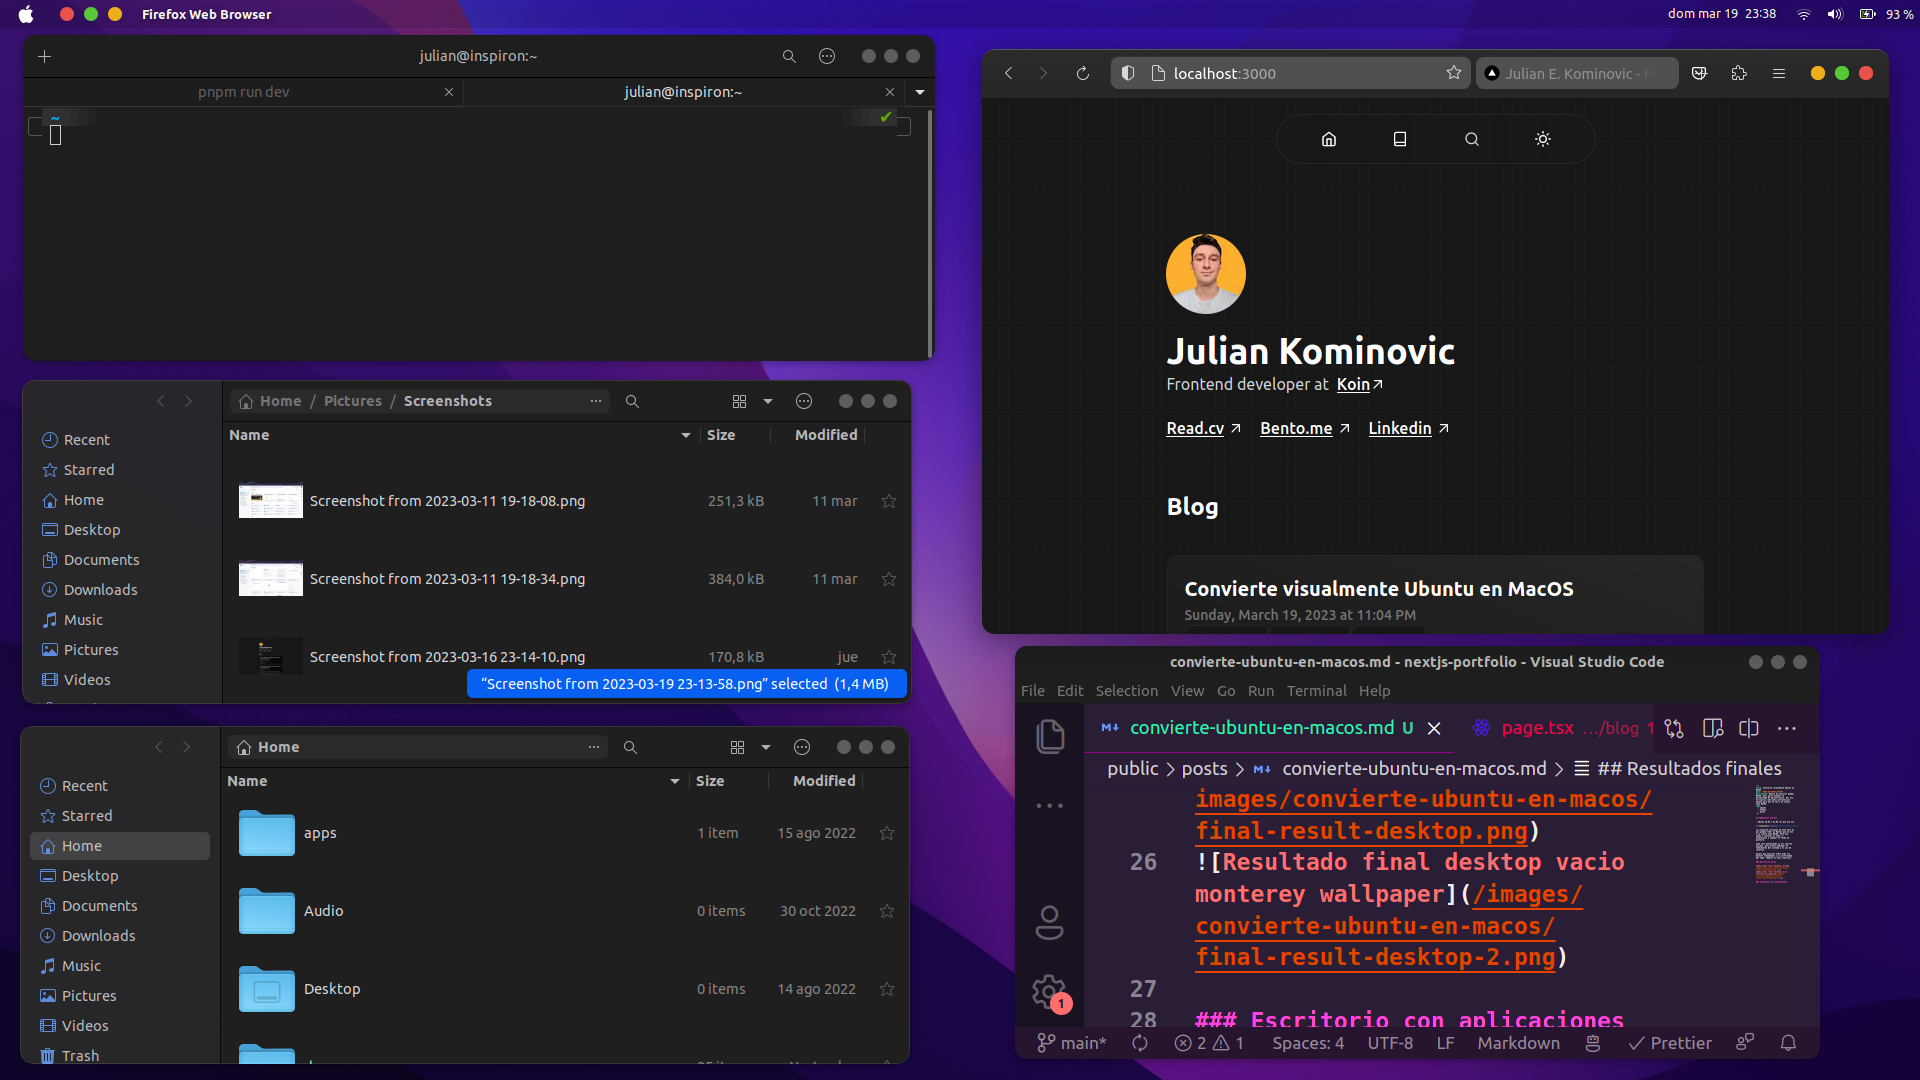
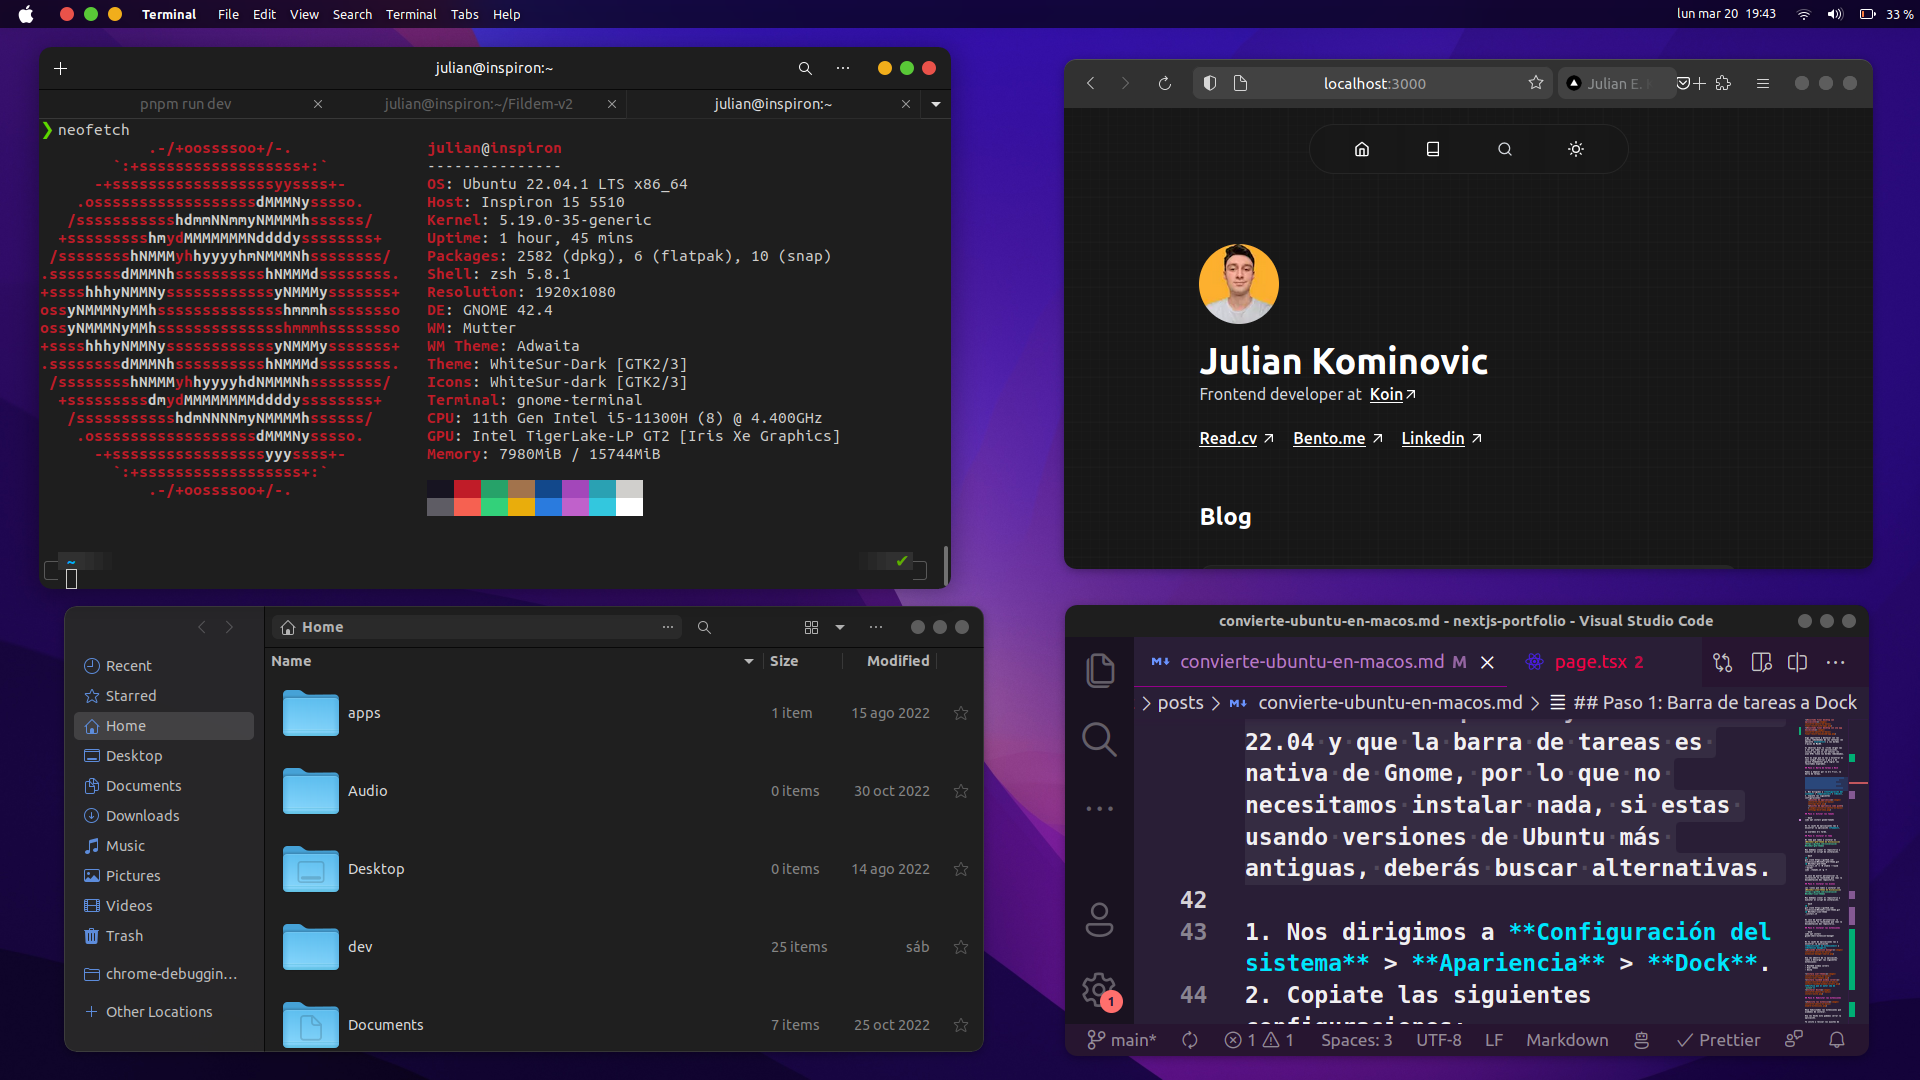
feat: ubuntu to mac post & og image

diff --git a/app/blog/[slug]/page.tsx b/app/blog/[slug]/page.tsx
@@ -9,15 +9,37 @@ import { readPost, readPostContent } from "@/lib/posts.server";
 import CustomElement from "@/components/markdown/CustomElements";
 import AutoHighlightedWord from "@/components/AutoHightlightedWord";
 import Image from "next/image";
+import { buildImageUrl, COMMON_METADATA } from "@/public/metadata";
+import { Metadata } from "next";
 
 function textContentAsID(textContent: string) {
   return textContent.replace(/ /g, "-").toLocaleLowerCase();
 }
 
+export async function generateMetadata({ params }): Promise<Metadata> {
+  const { slug } = params;
+  const { title, description, ogImage } = await readPost(slug);
+  console.log(buildImageUrl(title, description, ogImage));
+
+  return {
+    ...COMMON_METADATA,
+    title,
+    description,
+    openGraph: {
+      ...COMMON_METADATA.openGraph,
+      title,
+      description,
+      images: [{ url: buildImageUrl(title, description, ogImage) }],
+    },
+  };
+}
+
 export default async function Page({ params, searchParams }) {
   const { slug } = params;
   const highlightedWord = searchParams["highlight"];
-  const { content, title, date, description, tags } = await readPost(slug);
+  const { content, title, date, description, tags, ogImage } = await readPost(
+    slug
+  );
   return (
     <>
       <h1>{title}</h1>
@@ -47,24 +69,54 @@ export default async function Page({ params, searchParams }) {
               />
             </a>
           ),
-          h1: (props: any) => (
-            <h1 {...props} id={textContentAsID(String(props.children))} />
-          ),
-          h2: (props: any) => (
-            <h2 {...props} id={textContentAsID(String(props.children))} />
-          ),
-          h3: (props: any) => (
-            <h3 {...props} id={textContentAsID(String(props.children))} />
-          ),
-          h4: (props: any) => (
-            <h4 {...props} id={textContentAsID(String(props.children))} />
-          ),
-          h5: (props: any) => (
-            <h5 {...props} id={textContentAsID(String(props.children))} />
-          ),
-          h6: (props: any) => (
-            <h6 {...props} id={textContentAsID(String(props.children))} />
-          ),
+          h1: (props: any) => {
+            const childrenAsText = textContentAsID(String(props.children));
+            return (
+              <a href={"#" + childrenAsText} className="no-underline">
+                <h1 {...props} id={childrenAsText} />
+              </a>
+            );
+          },
+          h2: (props: any) => {
+            const childrenAsText = textContentAsID(String(props.children));
+            return (
+              <a href={"#" + childrenAsText} className="no-underline">
+                <h2 {...props} id={childrenAsText} />
+              </a>
+            );
+          },
+          h3: (props: any) => {
+            const childrenAsText = textContentAsID(String(props.children));
+            return (
+              <a href={"#" + childrenAsText} className="no-underline">
+                <h3 {...props} id={childrenAsText} />
+              </a>
+            );
+          },
+          h4: (props: any) => {
+            const childrenAsText = textContentAsID(String(props.children));
+            return (
+              <a href={"#" + childrenAsText} className="no-underline">
+                <h4 {...props} id={childrenAsText} />
+              </a>
+            );
+          },
+          h5: (props: any) => {
+            const childrenAsText = textContentAsID(String(props.children));
+            return (
+              <a href={"#" + childrenAsText} className="no-underline">
+                <h5 {...props} id={childrenAsText} />
+              </a>
+            );
+          },
+          h6: (props: any) => {
+            const childrenAsText = textContentAsID(String(props.children));
+            return (
+              <a href={"#" + childrenAsText} className="no-underline">
+                <h6 {...props} id={childrenAsText} />
+              </a>
+            );
+          },
         }}
       >
         {content}

diff --git a/app/api/og/route.tsx b/app/api/og/route.tsx
@@ -5,18 +5,26 @@ export const config = {
   runtime: "edge",
 };
 
+const DEFAULT_IMAGE = "https://avatars.githubusercontent.com/u/70329467?v=4";
+const BASE_URL =
+  process.env.NODE_ENV === "development"
+    ? "http://localhost:3000"
+    : "https://jkominovic.vercel.app";
+
 export function GET(req: NextRequest) {
   try {
     const { searchParams } = new URL(req.url);
 
     const title = searchParams.get("title");
     const description = searchParams.get("description");
+    const imageUrl = searchParams.get("imageUrl");
+
+    const imageSrc = imageUrl ? `${BASE_URL}${imageUrl}` : DEFAULT_IMAGE;
 
     return new ImageResponse(
       (
         <div
           style={{
-            padding: "0 120px",
             backgroundColor: "black",
             backgroundImage:
               "linear-gradient(45deg, rgba(0,0,0,1) 0%, rgba(13,13,13,1) 100%)",
@@ -25,19 +33,10 @@ export function GET(req: NextRequest) {
             width: "100%",
             display: "flex",
             alignItems: "center",
+            position: "relative",
             gap: 16,
           }}
         >
-          <img
-            src={`https://avatars.githubusercontent.com/u/70329467?v=4`}
-            width={200}
-            height={200}
-            alt="Julian Kominovic profile pic"
-            style={{
-              aspectRatio: "1/1",
-              borderRadius: "50%",
-            }}
-          />
           <div
             style={{
               display: "flex",
@@ -46,11 +45,12 @@ export function GET(req: NextRequest) {
               alignItems: "baseline",
               flexDirection: "column",
               flexWrap: "nowrap",
+              maxWidth: "50%",
             }}
           >
             <div
               style={{
-                fontSize: 60,
+                fontSize: 48,
                 fontStyle: "normal",
                 fontWeight: 900,
                 fontFamily:
@@ -58,7 +58,7 @@ export function GET(req: NextRequest) {
                 letterSpacing: "-0.025em",
                 color: "white",
                 marginTop: 30,
-                padding: "0 120px",
+                padding: "0 60px",
                 lineHeight: 1,
                 whiteSpace: "pre-wrap",
               }}
@@ -67,14 +67,14 @@ export function GET(req: NextRequest) {
             </div>
             <div
               style={{
-                fontSize: 28,
+                fontSize: 24,
                 fontWeight: 300,
-                maxWidth: "80%",
                 color: "#444",
                 fontStyle: "normal",
                 letterSpacing: "-0.025em",
                 marginTop: 30,
-                padding: "0 120px",
+                lineClamp: 3,
+                padding: "0 60px",
                 lineHeight: 1.4,
                 whiteSpace: "pre-wrap",
               }}
@@ -82,6 +82,18 @@ export function GET(req: NextRequest) {
               {description}
             </div>
           </div>
+          <img
+            src={imageSrc}
+            alt="Julian Kominovic profile pic"
+            style={{
+              maxWidth: "40%",
+              position: imageUrl ? "absolute" : "relative",
+              right: imageUrl ? "-20%" : "0",
+              objectFit: "contain",
+              borderRadius: imageUrl ? "24px" : "50%",
+              overflow: "hidden",
+            }}
+          />
         </div>
       ),
       {

diff --git a/public/metadata.ts b/public/metadata.ts
@@ -4,10 +4,14 @@ const DEFAULT_TITLE = "Julian E. Kominovic - Frontend Developer";
 const DEFAULT_DESCRIPTION =
   "Julian Ezequiel Kominovic Frontend Developer at Koin. Blog, projects and more.";
 
-export const buildImageUrl = (title: string, description: string) => {
+export const buildImageUrl = (
+  title: string,
+  description: string,
+  imageUrl: string
+) => {
   if (process.env.NODE_ENV === "development")
-    return `http://localhost:3000/api/og?title=${title}&description=${description}`;
-  return `https://jkominovic.vercel.app/api/og?title=${title}&description=${description}`;
+    return `http://localhost:3000/api/og?title=${title}&description=${description}&imageUrl=${imageUrl}`;
+  return `https://jkominovic.vercel.app/api/og?title=${title}&description=${description}&imageUrl=${imageUrl}`;
 };
 
 export const COMMON_METADATA: Metadata = {

diff --git a/app/page.tsx b/app/page.tsx
@@ -14,7 +14,7 @@ import ProfilPic from "../assets/images/pic.jpeg";
 export default async function Home() {
   const posts = await readLastPosts();
   return (
-    <main className="w-full p-6 mx-auto overflow-x-hidden prose dark:prose-invert">
+    <main className="w-full p-6 mx-auto overflow-x-hidden prose prose-lg dark:prose-invert">
       <header className="flex flex-col ">
         <Image
           src={ProfilPic}

diff --git a/lib/posts.server.ts b/lib/posts.server.ts
@@ -8,6 +8,7 @@ export type PostMetadata = {
   description: string;
   tags: string[];
   filename: string;
+  ogImage: string;
 };
 
 export async function readLastPosts(): Promise<PostMetadata[]> {

diff --git a/public/posts/convierte-ubuntu-en-macos.md b/public/posts/convierte-ubuntu-en-macos.md
@@ -6,6 +6,7 @@ tags:
   - ubuntu
   - themes
   - macos
+ogImage: /images/convierte-ubuntu-en-macos/final-result-desktop-2.png
 ---
 
 ## Requisitos previos
@@ -25,7 +26,8 @@ Todo esto manteniendo lo más vanilla posible, para evitar degradar el rendimien
 
 ### Escritorio con aplicaciones
 
-![Resultado final desktop con aplicaciones](/images/convierte-ubuntu-en-macos/final-result-with-apps.png)
+![Resultado final desktop con apps](/images/convierte-ubuntu-en-macos/final-result-with-apps.png)
+![Resultado final desktop con una app maximizada](/images/convierte-ubuntu-en-macos/final-result-maximized-app.png)
 
 Algo importante a destacar son las puntas redondeadas de las ventanas (en adelante **corners**) y los bordes típicos de MacOS.
 
@@ -47,7 +49,7 @@ Tené en cuenta que estoy usando Ubuntu 22.04 y que la barra de tareas es nativa
 ## Paso 2: Activar los tweaks
 
 ```bash
-sudo apt install gnome-tweak-tool
+sudo apt install gnome-tweaks
 ```
 
 En tu cajón de aplicaciones vas a encontrar la aplicación **Tweaks**.
@@ -126,11 +128,7 @@ Te invito a revisar los ajustes de cada una de las extensiones para que puedas p
 
 Luego de estos cambios verás una gran diferencia en el aspecto de tu escritorio.
 
-## Paso 8 (opcional): Cambiar el fondo de pantalla
-
-Este te lo dejo a tu gusto, pero te recomiendo que uses uno de los wallpapers de la última versión de MacOS, Monterey.
-
-## Paso 9 (opcional): Instalar la extension 'Blur my shell'
+## Paso 8: Instalar la extension 'Blur my shell'
 
 Esta extensión no es necesaria para lograr lo que buscamos, pero si te gusta el efecto de blur que tiene el fondo de pantalla de MacOS, te recomiendo que la instales.
 ![Ejemplo de blur my shel](/images/convierte-ubuntu-en-macos/blur-my-shell-example.png)
@@ -139,18 +137,77 @@ En caso de instalarla deberías probar configurarla según tu parecer.
 
 Tiene una configuración bastante simple pero poderosa, hasta quizas logres algo mejor que el efecto de blur de MacOS.
 
-## Paso 10 (opcional): Global menu
+## Paso 9: Global menu
 
 Una de las features que unifica el menú de cada aplicación en el menú de la barra de tareas es la extensión **Fildem Global menu**.
 
-Ahora bien, esta extensión no es compatible de momento con Gnome 42+, por lo que si estás usando Ubuntu 22.04 o superior, no podrás instalarla, **al menos de momento**.
+~Ahora bien, esta extensión no es compatible de momento con Gnome 42+, por lo que si estás usando Ubuntu 22.04 o superior, no podrás instalarla, **al menos de momento**.~
 
-Probá de verificar si cuando estés leyendo esto ya está disponible para Gnome 42+.
+~Probá de verificar si cuando estés leyendo esto ya está disponible para Gnome 42+.~
 
 Esta extensión es bastante útil, ya que te permite tener el menú de cada aplicación en la barra de tareas, lo que hace que el escritorio se vea mucho más limpio.
+
+### Update 20 de marzo de 2023
+
+Conseguí una solución para instalar la extensión en Gnome 43+.
+
+Extension: [Fildem V2](https://github.com/Weather-OS/Fildem-v2)
+
+1. Instalamos las dependencias:
+
+```bash
+sudo apt install libbamf3-dev bamfdaemon libkeybinder-3.0-dev appmenu-gtk2-module appmenu-gtk3-module unity-gtk-module-common python3 python3-pip
+pip3 install setuptools
+```
+
+2. Ejecutamos el script de instalación:
+
+```bash
+cd ~
+git clone https://github.com/Weather-OS/Fildem-v2
+cd Fildem-v2
+sudo python3 setup.py install --optimize=1
+mv ./fildemGMenu@gonza.com ~/.local/share/gnome-shell/extensions
+```
+
+3. Ahora editamos el archivo `.gtkrc-2.0`
+
+```bash
+nano ~/.gtkrc-2.0
+```
+
+y al final de todo agregamos: `gtk-modules="appmenu-gtk-module"`
+
+4. Ahora editamos el archivo `.config/gtk-3.0/settings.ini`
+
+```bash
+nano ~/.config/gtk-3.0/settings.ini
+```
+
+y al final de todo agregamos: `gtk-modules="appmenu-gtk-module"`
+
+5. Reiniciamos el sistema o nos deslogueamos y volvemos a loguear.
+6. Abrimos la aplicación **Extension manager**.
+7. Buscamos **Fildem global menu** y la activamos.
+8. Nos vamos a ajustes de la extensión y desactivamos las unicas dos opciones que hay.
+
+Nos deberia quedar algo como esto:
+![Fildem global menu](/images/convierte-ubuntu-en-macos/fildem-global-menu.png)
+
+## Paso 10 (opcional): Cambiar el fondo de pantalla
+
+Este te lo dejo a tu gusto, pero te recomiendo que uses uno de los wallpapers de la última versión de MacOS, Monterey.
 
 ## Por último
 
 - Va a sonar a cliché pero debes reiniciar tu sistema para que los cambios se terminen de aplicar.
 - Te recomiendo que juegues un poco con las configuraciones de las extensiones que instalamos en el paso 5.
 - En los pasos 3 y 4 hay muchas opciones y variantes que te permiten personalizar el tema y los íconos, te recomiendo que leas la documentación de cada uno de ellos para que puedas personalizarlos a tu gusto.
+
+## Disclaimer
+
+_De más esta decir que no me responsabilizo por posibles bugs, artifacts o imprevistos que surjan en el proceso o en resultado._
+
+_Uso estas modificaciones en mi trabajo y en mi maquina personal, nunca tuve problemas hasta el momento._
+
+_Tené en cuenta que estás modificando el DE (desktop environment) y al hacer esto es probable que surjan inconvenientes. No recomiendo hacer esto en entornos críticos que no deben fallar bajo ninguna circustancia._
